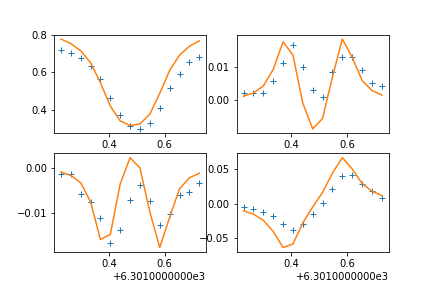
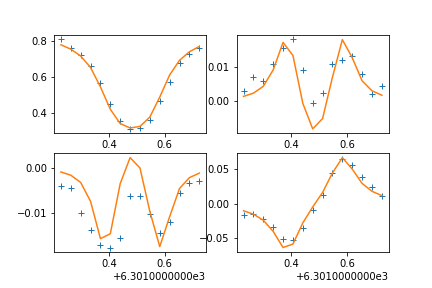
Update
Fixed so that the fitted plots are shown for one pixel in the quiet sun, penumbra and umbra

diff --git a/src/ExerciseW6.py b/src/ExerciseW6.py
@@ -1,13 +1,141 @@
+#%%
 import numpy as np
 import matplotlib.pyplot as plt
+from tqdm import tqdm
+from Tranpol import UR
 
 cavity = np.load(r"C:\Users\keyur\OneDrive\Dokument\Zeemandata\cavity_map.npy")
+result = np.load('result.npy')
+obstokes = np.load(r"C:\Users\keyur\OneDrive\Dokument\Zeemandata\observed_stokes.npy")
+obwaves = np.load(r"C:\Users\keyur\OneDrive\Dokument\Zeemandata\observed_wave.npy")
 
 plt.imshow(cavity)
 plt.show()
 
+plt.imshow(result[:,:,2])
+plt.show()
+
+#%%
+
+for y in tqdm(range(134)):
+    for x in range (132):
+        skip_factor = 7
+        cm = cavity[0::skip_factor, 0::skip_factor]
+        l0 = 6301.5 # reference waveleght
+        cc = 3e5 # light speed
+        result[y,x,4] = result[y,x,4] + cm[y,x]/l0*cc
+
+np.save('result.npy',result)
+# %%
+result = np.load('result.npy')
+
+plt.imshow(result[:,:,0],interpolation = None)
+plt.xlabel('x')
+plt.ylabel('y')
+plt.title('a')
+plt.colorbar()
+plt.savefig('a.pdf')
+plt.show()
+
+plt.imshow(result[:,:,1],interpolation = None)
+plt.xlabel('x')
+plt.ylabel('y')
+plt.title('b')
+plt.colorbar()
+plt.savefig('b.pdf')
+plt.show()
+
+plt.imshow(result[:,:,2],interpolation = None)
+plt.xlabel('x')
+plt.ylabel('y')
+plt.title('B')
+plt.colorbar()
+plt.savefig('mag.pdf')
+plt.show()
+
+plt.imshow(result[:,:,3],interpolation = None)
+plt.xlabel('x')
+plt.ylabel('y')
+plt.title('doppler width')
+plt.colorbar()
+plt.savefig('doppler_width.pdf')
+plt.show()
+
+plt.imshow(result[:,:,4],cmap='bwr',interpolation = None)
+plt.xlabel('x')
+plt.ylabel('y')
+plt.title('v_LOS')
+plt.colorbar()
+plt.savefig('v_LOS.pdf')
+plt.show()
+
+plt.imshow(result[:,:,5],interpolation = None)
+plt.xlabel('x')
+plt.ylabel('y')
+plt.title('aimag')
+plt.colorbar()
+plt.savefig('aimag.pdf')
+plt.show()
+
+plt.imshow(result[:,:,6],cmap = 'RdYlGn',interpolation = None)
+plt.xlabel('x')
+plt.ylabel('y')
+plt.title('theta')
+plt.colorbar()
+plt.savefig('theta.pdf')
+plt.show()
+
+plt.imshow(result[:,:,7],cmap='twilight',interpolation = 'nearest')
+plt.xlabel('x')
+plt.ylabel('y')
+plt.title('Xi')
+plt.colorbar()
+plt.savefig('Xi.pdf')
+plt.show()
+
+plt.imshow(result[:,:,8],interpolation = None)
+plt.xlabel('x')
+plt.ylabel('y')
+plt.title('eta_0')
+plt.colorbar()
+plt.savefig('eta_0.pdf')
+plt.show()
+# %%
+J_l = 2
+J_u = 2
+L_l = 1
+L_u = 2
+S_l = 2
+S_u = 2
 skip_factor = 7
-cm = cavity[0::skip_factor, 0::skip_factor]
-l0 = 6301.5 # reference waveleght
-cc = 3e5 # light speed
-vlos_inversion = vlos_inversion + cm/l0*cc
+sdata = obstokes[:,:15,0::skip_factor,0::skip_factor]
+x = 10
+y = 10
+sim = UR(result[y,x,0],result[y,x,1],result[y,x,2],obwaves[0:15],6301.5,result[y,x,3],result[y,x,4],result[y,x,5],result[y,x,6],result[y,x,7],result[y,x,8],J_l,J_u,L_l,L_u,S_l,S_u)
+for i in range(4):
+    plt.subplot(2,2,i+1)
+    plt.plot(obwaves[:15],sdata[i,:15,y,x],'+')
+    plt.plot(obwaves[:15],sim[i])
+plt.savefig('quiet_sun_result')
+plt.show()
+
+x = 30
+y = 30
+sim = UR(result[y,x,0],result[y,x,1],result[y,x,2],obwaves[0:15],6301.5,result[y,x,3],result[y,x,4],result[y,x,5],result[y,x,6],result[y,x,7],result[y,x,8],J_l,J_u,L_l,L_u,S_l,S_u)
+for i in range(4):
+    plt.subplot(2,2,i+1)
+    plt.plot(obwaves[:15],sdata[i,:15,y,x],'+')
+    plt.plot(obwaves[:15],sim[i])
+plt.savefig('penumbra_result')
+plt.show()
+
+x = 50
+y = 50
+sim = UR(result[y,x,0],result[y,x,1],result[y,x,2],obwaves[0:15],6301.5,result[y,x,3],result[y,x,4],result[y,x,5],result[y,x,6],result[y,x,7],result[y,x,8],J_l,J_u,L_l,L_u,S_l,S_u)
+for i in range(4):
+    plt.subplot(2,2,i+1)
+    plt.plot(obwaves[:15],sdata[i,:15,y,x],'+')
+    plt.plot(obwaves[:15],sim[i])
+plt.savefig('umbra_result')
+plt.show()
+# %%
